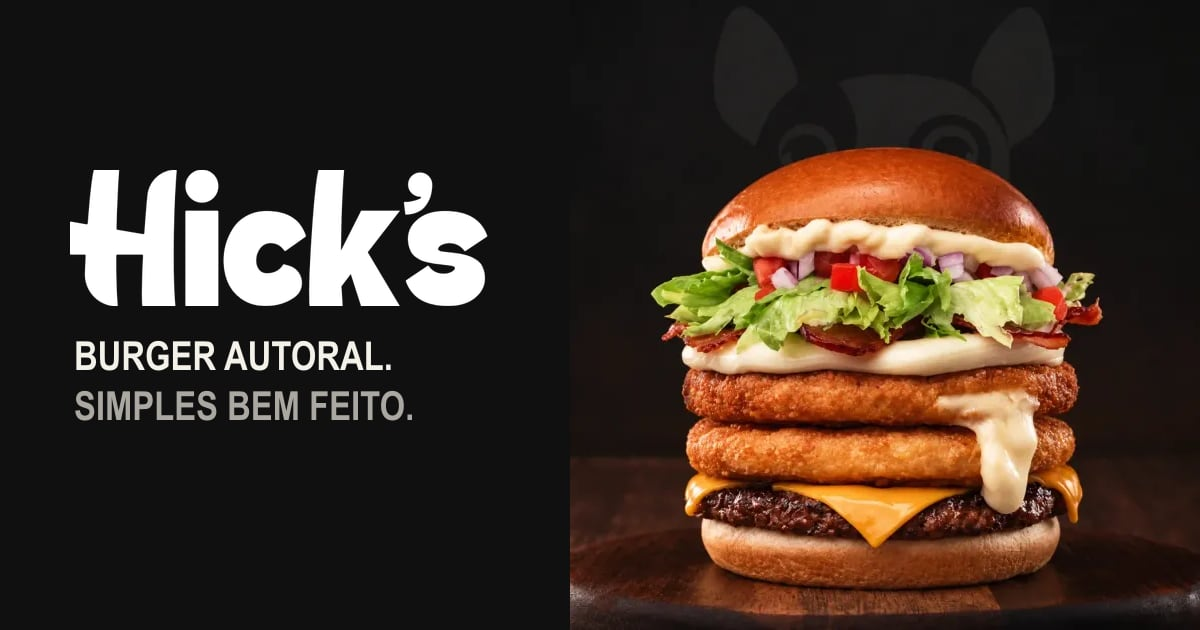
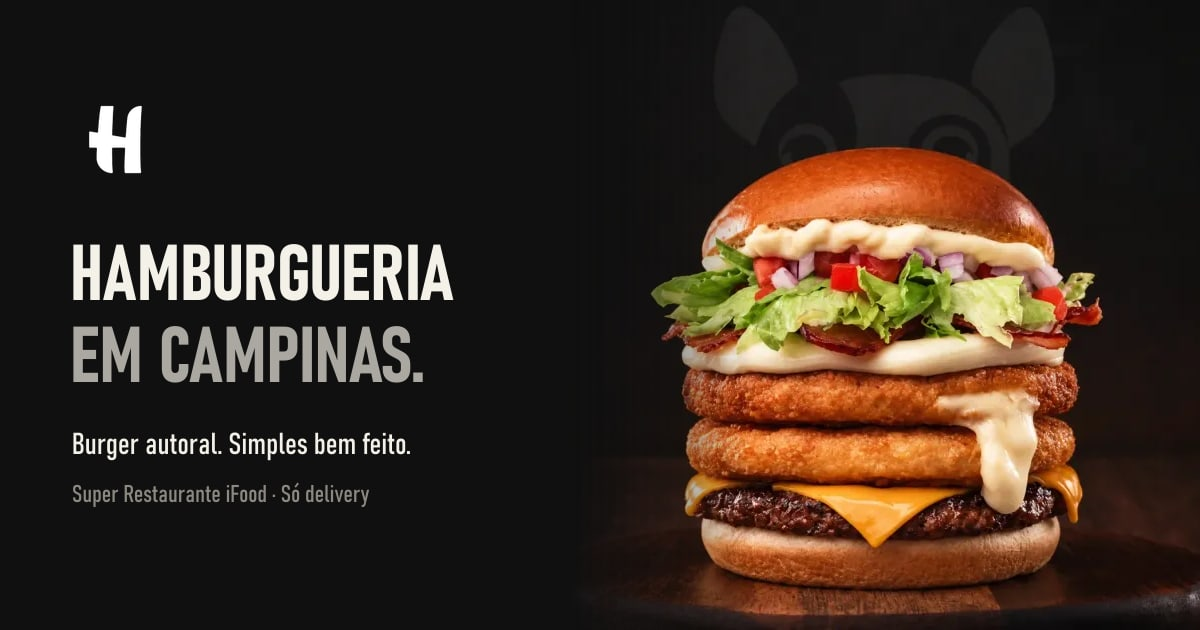
rodada 9: título, descrição, ícone H e imagem de compartilhamento; fim do "Segue o Bulldog"

diff --git a/historia.html b/historia.html
@@ -4,7 +4,7 @@
 <title>Nossa história — Hick’s Burger</title>
 <meta name="description" content="Do quintal ao burger autoral. Conheça a origem, a identidade e o bulldog do Hicks.">
 <meta name="theme-color" content="#101010"><meta property="og:title" content="Nossa história — Hick’s Burger"><meta property="og:description" content="Do quintal ao burger autoral. Conheça a origem, a identidade e o bulldog do Hicks."><meta property="og:type" content="website">
-<link rel="icon" type="image/png" sizes="32x32" href="favicon-32.png"><link rel="apple-touch-icon" href="apple-touch-icon.png"><link rel="canonical" href="https://hicksburger.com.br/historia"><meta property="og:url" content="https://hicksburger.com.br/historia"><meta property="og:image" content="https://hicksburger.com.br/og.jpg"><meta property="og:image:width" content="1200"><meta property="og:image:height" content="630"><meta property="og:locale" content="pt_BR"><meta name="twitter:card" content="summary_large_image"><link rel="preload" as="font" type="font/woff2" crossorigin href="assets/fonts/barlow-condensed-500-latin.woff2"><style>/* vietnamese */
+<link rel="icon" href="/favicon.ico" sizes="48x48"><link rel="icon" type="image/png" sizes="32x32" href="favicon-32.png"><link rel="icon" type="image/png" sizes="192x192" href="icon-192.png"><link rel="apple-touch-icon" href="apple-touch-icon.png"><link rel="canonical" href="https://hicksburger.com.br/historia"><meta property="og:url" content="https://hicksburger.com.br/historia"><meta property="og:image" content="https://hicksburger.com.br/og.jpg"><meta property="og:image:width" content="1200"><meta property="og:image:height" content="630"><meta property="og:locale" content="pt_BR"><meta name="twitter:card" content="summary_large_image"><link rel="preload" as="font" type="font/woff2" crossorigin href="assets/fonts/barlow-condensed-500-latin.woff2"><style>/* vietnamese */
 @font-face {
   font-family: 'Barlow Condensed';
   font-style: normal;
@@ -1256,4 +1256,4 @@ html.hki-lock .header .brand-h{opacity:0!important}
 .portlink-port{font-weight:300}.portlink-link{font-weight:700}
 @media(max-width:650px){.portlink-wrap{padding-bottom:70px}}
 </style></head>
-<body><a class="skip" href="#conteudo">Pular para o conteúdo</a><header class="header"><a class="brand" href="/portlink" aria-label="Hick’s Burger — início"><img class="brand-h" src="assets/img/hicks-h-clear.png" width="150" height="150" alt="Hick’s Burger"></a><nav aria-label="Navegação principal"><a href="/historia">O <img class="hk-word" src="assets/img/hicks-word.png" alt="Hick’s" width="644" height="209"></a><a href="/portlink#lanches">Os lanches</a><a href="/bastidores">Bastidores</a></nav><div class="header-actions"><a class="nav-ig" href="https://www.instagram.com/hicks_br/" target="_blank" rel="noopener noreferrer" aria-label="Instagram do Hicks — @hicks_br"><svg width="18" height="18" viewBox="0 0 24 24" fill="none" stroke="currentColor" stroke-width="1.8" aria-hidden="true"><rect x="3" y="3" width="18" height="18" rx="5"/><circle cx="12" cy="12" r="4"/><circle cx="17.3" cy="6.7" r="1" fill="currentColor" stroke="none"/></svg></a></div></header><main id="conteudo"><section class="sub-hero section-wrap"><a class="back" href="/portlink">← Voltar para o <img class="hk-word" src="assets/img/hicks-word.png" alt="Hick’s" width="644" height="209"></a><p class="eyebrow">A HISTÓRIA / A ESSÊNCIA / O BULLDOG</p><h1>Raiz no quintal.<br>Identidade em cada pedido.</h1><p>Começamos com dog. Crescemos com burger.<br>Seguimos fazendo o simples bem feito.</p></section><section class="story-body section-wrap"><div><div class="chapter"><p class="eyebrow">DE ONDE VIEMOS</p><h2>Uma história<br>sem firula.</h2><p>O <img class="hk-word" src="assets/img/hicks-word.png" alt="Hick’s" width="644" height="209"> nasceu no quintal, na correria e no improviso. Começou com hot dog e encontrou no burger um jeito de crescer sem deixar para trás a própria essência.</p><p>O que atravessa essa história é simples: atenção aos detalhes, respeito por quem pede e vontade de fazer bem feito todos os dias.</p></div><div class="chapter"><p class="eyebrow">O QUE NOS MOVE</p><h2>Autoral. Direto.<br>Da nossa região.</h2><p>Ser uma marca autoral é ter personalidade no produto e clareza na conversa. O <img class="hk-word" src="assets/img/hicks-word.png" alt="Hick’s" width="644" height="209"> valoriza o burger clássico atualizado, o sabor consistente e a proximidade com a comunidade que colocou a marca no mapa.</p><p>O compromisso é evoluir mantendo a simplicidade como assinatura. Da cozinha ao delivery, com verdade e constância.</p></div><div class="chapter"><p class="eyebrow">PRETO, BRANCO E BULLDOG</p><h2>Um símbolo<br>que aponta o caminho.</h2><p>O preto e branco faz parte da postura do <img class="hk-word" src="assets/img/hicks-word.png" alt="Hick’s" width="644" height="209">: direta, sincera e reconhecível. O bulldog concentra essa identidade.</p><p>Mais que um desenho, ele é a assinatura da marca. Quando a região vê o cachorro, sabe que chegou <img class="hk-word" src="assets/img/hicks-word.png" alt="Hick’s" width="644" height="209">.</p><p>Segue o Bulldog.</p></div></div></section><section class="sub-cta section-wrap"><p class="eyebrow">CONHEÇA O <img class="hk-word" src="assets/img/hicks-word.png" alt="Hick’s" width="644" height="209"> PELO SABOR</p><h2 style="margin-top:20px">Agora, escolha <em>o seu.</em></h2><a class="button light" href="/portlink#proximo-pedido">Ver destaques <span>↗</span></a></section></main><footer class="footer" id="fim"><div class="footer-top"><img class="footer-dog footer-h" src="assets/img/hicks-h-clear.png" alt="Hick’s" width="150" height="150"><h2>Segue o <em>Hicks.</em></h2><a class="footer-ig" href="https://www.instagram.com/hicks_br/" target="_blank" rel="noopener noreferrer" aria-label="Instagram @hicks_br"><svg width="15" height="15" viewBox="0 0 24 24" fill="none" stroke="currentColor" stroke-width="1.8" aria-hidden="true"><rect x="3" y="3" width="18" height="18" rx="5"/><circle cx="12" cy="12" r="4"/><circle cx="17.3" cy="6.7" r="1" fill="currentColor" stroke="none"/></svg><span>@hicks_br</span></a><a class="footer-cta" href="https://www.ifood.com.br/delivery/campinas-sp/hicks--burger-vila-boa-vista/4a2f1137-8a50-41d3-8a62-c63040e771f1" target="_blank" rel="noopener noreferrer">Peça agora <span>↗</span></a></div><div class="hours footer-hours"><h3>Horários da cozinha</h3><dl><div><dt>Quarta a segunda</dt><dd>18h — 23h</dd></div><div><dt>Terça-feira</dt><dd>Fechado</dd></div></dl></div><div class="footer-bottom"><a class="brand" href="/portlink"><img class="footer-brand-h" src="assets/img/hicks-h-clear.png" alt="Hick’s Burger" width="150" height="150"></a><p class="fb-tag">Burger autoral. Simples bem feito.</p></div><p class="legal"><img class="hk-word" src="assets/img/hicks-word.png" alt="Hick’s" width="644" height="209"> · Campinas — SP · CNPJ 36.635.421/0001-36</p><div class="portlink-wrap"><a href="https://useportlink.com" target="_blank" rel="noopener" aria-label="by portlink" class="portlink-sign"><span class="portlink-by">by</span><span class="portlink-word"><span class="portlink-port">port</span><span class="portlink-link">link</span></span></a></div></footer><div class="mobile-order"><span>DEU FOME?</span><a href="/central">Escolha onde pedir ↗</a></div><script src="assets/js/scroll-motion.js" defer></script></body></html>
+<body><a class="skip" href="#conteudo">Pular para o conteúdo</a><header class="header"><a class="brand" href="/portlink" aria-label="Hick’s Burger — início"><img class="brand-h" src="assets/img/hicks-h-clear.png" width="150" height="150" alt="Hick’s Burger"></a><nav aria-label="Navegação principal"><a href="/historia">O <img class="hk-word" src="assets/img/hicks-word.png" alt="Hick’s" width="644" height="209"></a><a href="/portlink#lanches">Os lanches</a><a href="/bastidores">Bastidores</a></nav><div class="header-actions"><a class="nav-ig" href="https://www.instagram.com/hicks_br/" target="_blank" rel="noopener noreferrer" aria-label="Instagram do Hicks — @hicks_br"><svg width="18" height="18" viewBox="0 0 24 24" fill="none" stroke="currentColor" stroke-width="1.8" aria-hidden="true"><rect x="3" y="3" width="18" height="18" rx="5"/><circle cx="12" cy="12" r="4"/><circle cx="17.3" cy="6.7" r="1" fill="currentColor" stroke="none"/></svg></a></div></header><main id="conteudo"><section class="sub-hero section-wrap"><a class="back" href="/portlink">← Voltar para o <img class="hk-word" src="assets/img/hicks-word.png" alt="Hick’s" width="644" height="209"></a><p class="eyebrow">A HISTÓRIA / A ESSÊNCIA / O BULLDOG</p><h1>Raiz no quintal.<br>Identidade em cada pedido.</h1><p>Começamos com dog. Crescemos com burger.<br>Seguimos fazendo o simples bem feito.</p></section><section class="story-body section-wrap"><div><div class="chapter"><p class="eyebrow">DE ONDE VIEMOS</p><h2>Uma história<br>sem firula.</h2><p>O <img class="hk-word" src="assets/img/hicks-word.png" alt="Hick’s" width="644" height="209"> nasceu no quintal, na correria e no improviso. Começou com hot dog e encontrou no burger um jeito de crescer sem deixar para trás a própria essência.</p><p>O que atravessa essa história é simples: atenção aos detalhes, respeito por quem pede e vontade de fazer bem feito todos os dias.</p></div><div class="chapter"><p class="eyebrow">O QUE NOS MOVE</p><h2>Autoral. Direto.<br>Da nossa região.</h2><p>Ser uma marca autoral é ter personalidade no produto e clareza na conversa. O <img class="hk-word" src="assets/img/hicks-word.png" alt="Hick’s" width="644" height="209"> valoriza o burger clássico atualizado, o sabor consistente e a proximidade com a comunidade que colocou a marca no mapa.</p><p>O compromisso é evoluir mantendo a simplicidade como assinatura. Da cozinha ao delivery, com verdade e constância.</p></div><div class="chapter"><p class="eyebrow">PRETO, BRANCO E BULLDOG</p><h2>Um símbolo<br>que aponta o caminho.</h2><p>O preto e branco faz parte da postura do <img class="hk-word" src="assets/img/hicks-word.png" alt="Hick’s" width="644" height="209">: direta, sincera e reconhecível. O bulldog concentra essa identidade.</p><p>Mais que um desenho, ele é a assinatura da marca. Quando a região vê o cachorro, sabe que chegou <img class="hk-word" src="assets/img/hicks-word.png" alt="Hick’s" width="644" height="209">.</p><p>Segue o Hicks.</p></div></div></section><section class="sub-cta section-wrap"><p class="eyebrow">CONHEÇA O <img class="hk-word" src="assets/img/hicks-word.png" alt="Hick’s" width="644" height="209"> PELO SABOR</p><h2 style="margin-top:20px">Agora, escolha <em>o seu.</em></h2><a class="button light" href="/portlink#proximo-pedido">Ver destaques <span>↗</span></a></section></main><footer class="footer" id="fim"><div class="footer-top"><img class="footer-dog footer-h" src="assets/img/hicks-h-clear.png" alt="Hick’s" width="150" height="150"><h2>Segue o <em>Hicks.</em></h2><a class="footer-ig" href="https://www.instagram.com/hicks_br/" target="_blank" rel="noopener noreferrer" aria-label="Instagram @hicks_br"><svg width="15" height="15" viewBox="0 0 24 24" fill="none" stroke="currentColor" stroke-width="1.8" aria-hidden="true"><rect x="3" y="3" width="18" height="18" rx="5"/><circle cx="12" cy="12" r="4"/><circle cx="17.3" cy="6.7" r="1" fill="currentColor" stroke="none"/></svg><span>@hicks_br</span></a><a class="footer-cta" href="https://www.ifood.com.br/delivery/campinas-sp/hicks--burger-vila-boa-vista/4a2f1137-8a50-41d3-8a62-c63040e771f1" target="_blank" rel="noopener noreferrer">Peça agora <span>↗</span></a></div><div class="hours footer-hours"><h3>Horários da cozinha</h3><dl><div><dt>Quarta a segunda</dt><dd>18h — 23h</dd></div><div><dt>Terça-feira</dt><dd>Fechado</dd></div></dl></div><div class="footer-bottom"><a class="brand" href="/portlink"><img class="footer-brand-h" src="assets/img/hicks-h-clear.png" alt="Hick’s Burger" width="150" height="150"></a><p class="fb-tag">Burger autoral. Simples bem feito.</p></div><p class="legal"><img class="hk-word" src="assets/img/hicks-word.png" alt="Hick’s" width="644" height="209"> · Campinas — SP · CNPJ 36.635.421/0001-36</p><div class="portlink-wrap"><a href="https://useportlink.com" target="_blank" rel="noopener" aria-label="by portlink" class="portlink-sign"><span class="portlink-by">by</span><span class="portlink-word"><span class="portlink-port">port</span><span class="portlink-link">link</span></span></a></div></footer><div class="mobile-order"><span>DEU FOME?</span><a href="/central">Escolha onde pedir ↗</a></div><script src="assets/js/scroll-motion.js" defer></script></body></html>

diff --git a/central.html b/central.html
@@ -2,9 +2,9 @@
 <html lang="pt-BR"><head>
 <meta charset="utf-8"><meta name="viewport" content="width=device-width,initial-scale=1">
 <title>Onde pedir — Hick’s Burger</title>
-<meta name="description" content="Acesse Cardápio Web, iFood, 99 e Instagram do Hick’s Burger em um só lugar.">
-<meta name="theme-color" content="#101010"><meta property="og:title" content="Onde pedir — Hick’s Burger"><meta property="og:description" content="Acesse Cardápio Web, iFood, 99 e Instagram do Hick’s Burger em um só lugar."><meta property="og:type" content="website">
-<link rel="icon" type="image/png" sizes="32x32" href="favicon-32.png"><link rel="apple-touch-icon" href="apple-touch-icon.png"><link rel="canonical" href="https://hicksburger.com.br/central"><meta property="og:url" content="https://hicksburger.com.br/central"><meta property="og:image" content="https://hicksburger.com.br/og.jpg"><meta property="og:image:width" content="1200"><meta property="og:image:height" content="630"><meta property="og:locale" content="pt_BR"><meta name="twitter:card" content="summary_large_image"><link rel="preload" as="font" type="font/woff2" crossorigin href="assets/fonts/barlow-condensed-500-latin.woff2"><style>/* vietnamese */
+<meta name="description" content="Onde pedir o Hicks em Campinas: peça pelo iFood, de quarta a segunda, das 18h às 23h. Acompanhe também o Instagram @hicks_br.">
+<meta name="theme-color" content="#101010"><meta property="og:title" content="Onde pedir — Hick’s Burger"><meta property="og:description" content="Onde pedir o Hicks em Campinas: peça pelo iFood, de quarta a segunda, das 18h às 23h. Acompanhe também o Instagram @hicks_br."><meta property="og:type" content="website">
+<link rel="icon" href="/favicon.ico" sizes="48x48"><link rel="icon" type="image/png" sizes="32x32" href="favicon-32.png"><link rel="icon" type="image/png" sizes="192x192" href="icon-192.png"><link rel="apple-touch-icon" href="apple-touch-icon.png"><link rel="canonical" href="https://hicksburger.com.br/central"><meta property="og:url" content="https://hicksburger.com.br/central"><meta property="og:image" content="https://hicksburger.com.br/og.jpg"><meta property="og:image:width" content="1200"><meta property="og:image:height" content="630"><meta property="og:locale" content="pt_BR"><meta name="twitter:card" content="summary_large_image"><link rel="preload" as="font" type="font/woff2" crossorigin href="assets/fonts/barlow-condensed-500-latin.woff2"><style>/* vietnamese */
 @font-face {
   font-family: 'Barlow Condensed';
   font-style: normal;
@@ -1256,4 +1256,4 @@ html.hki-lock .header .brand-h{opacity:0!important}
 .portlink-port{font-weight:300}.portlink-link{font-weight:700}
 @media(max-width:650px){.portlink-wrap{padding-bottom:70px}}
 </style></head>
-<body><a class="skip" href="#conteudo">Pular para o conteúdo</a><header class="header"><a class="brand" href="/portlink" aria-label="Hick’s Burger — início"><img class="brand-h" src="assets/img/hicks-h-clear.png" width="150" height="150" alt="Hick’s Burger"></a><nav aria-label="Navegação principal"><a href="/historia">O <img class="hk-word" src="assets/img/hicks-word.png" alt="Hick’s" width="644" height="209"></a><a href="/portlink#lanches">Os lanches</a><a href="/bastidores">Bastidores</a></nav><div class="header-actions"><a class="nav-ig" href="https://www.instagram.com/hicks_br/" target="_blank" rel="noopener noreferrer" aria-label="Instagram do Hicks — @hicks_br"><svg width="18" height="18" viewBox="0 0 24 24" fill="none" stroke="currentColor" stroke-width="1.8" aria-hidden="true"><rect x="3" y="3" width="18" height="18" rx="5"/><circle cx="12" cy="12" r="4"/><circle cx="17.3" cy="6.7" r="1" fill="currentColor" stroke="none"/></svg></a></div></header><main id="conteudo"><section class="central-layout section-wrap"><a class="back text-link" href="/portlink">← Voltar para o <img class="hk-word" src="assets/img/hicks-word.png" alt="Hick’s" width="644" height="209"></a><p class="eyebrow" style="margin-top:45px">A CENTRAL DO <img class="hk-word" src="assets/img/hicks-word.png" alt="Hick’s" width="644" height="209"></p><h1>Sua fome.<br>Seu caminho.</h1><p class="central-sub">Todos os acessos oficiais, em um só lugar.</p><div class="access-actions central-actions"><a class="ch ch-ifood" href="https://www.ifood.com.br/delivery/campinas-sp/hicks--burger-vila-boa-vista/4a2f1137-8a50-41d3-8a62-c63040e771f1" target="_blank" rel="noopener noreferrer"><span class="ch-tag">Super Restaurante</span><img class="ch-brand" src="assets/img/logo-ifood.jpg" alt="iFood" width="172" height="148"><span class="ch-label">peça pelo iFood</span></a></div><a class="mq-follow central-ig" href="https://www.instagram.com/hicks_br/" target="_blank" rel="noopener noreferrer" aria-label="Segue o bulldog no Instagram">segue o <span class="hk-font">bulldog</span> <svg width="14" height="14" viewBox="0 0 24 24" fill="none" stroke="currentColor" stroke-width="1.8" aria-hidden="true"><rect x="3" y="3" width="18" height="18" rx="5"/><circle cx="12" cy="12" r="4"/><circle cx="17.3" cy="6.7" r="1" fill="currentColor" stroke="none"/></svg></a><p class="fine" style="margin-top:25px">A disponibilidade, os preços e as condições de entrega são informados em cada plataforma.</p><a class="central-back" href="/portlink#informacoes">Horários e informações úteis ↗</a></section></main><footer class="footer" id="fim"><div class="footer-top"><img class="footer-dog footer-h" src="assets/img/hicks-h-clear.png" alt="Hick’s" width="150" height="150"><h2>Segue o <em>Hicks.</em></h2><a class="footer-ig" href="https://www.instagram.com/hicks_br/" target="_blank" rel="noopener noreferrer" aria-label="Instagram @hicks_br"><svg width="15" height="15" viewBox="0 0 24 24" fill="none" stroke="currentColor" stroke-width="1.8" aria-hidden="true"><rect x="3" y="3" width="18" height="18" rx="5"/><circle cx="12" cy="12" r="4"/><circle cx="17.3" cy="6.7" r="1" fill="currentColor" stroke="none"/></svg><span>@hicks_br</span></a><a class="footer-cta" href="https://www.ifood.com.br/delivery/campinas-sp/hicks--burger-vila-boa-vista/4a2f1137-8a50-41d3-8a62-c63040e771f1" target="_blank" rel="noopener noreferrer">Peça agora <span>↗</span></a></div><div class="hours footer-hours"><h3>Horários da cozinha</h3><dl><div><dt>Quarta a segunda</dt><dd>18h — 23h</dd></div><div><dt>Terça-feira</dt><dd>Fechado</dd></div></dl></div><div class="footer-bottom"><a class="brand" href="/portlink"><img class="footer-brand-h" src="assets/img/hicks-h-clear.png" alt="Hick’s Burger" width="150" height="150"></a><p class="fb-tag">Burger autoral. Simples bem feito.</p></div><p class="legal"><img class="hk-word" src="assets/img/hicks-word.png" alt="Hick’s" width="644" height="209"> · Campinas — SP · CNPJ 36.635.421/0001-36</p><div class="portlink-wrap"><a href="https://useportlink.com" target="_blank" rel="noopener" aria-label="by portlink" class="portlink-sign"><span class="portlink-by">by</span><span class="portlink-word"><span class="portlink-port">port</span><span class="portlink-link">link</span></span></a></div></footer><div class="mobile-order"><span>DEU FOME?</span><a href="/central">Escolha onde pedir ↗</a></div><script src="assets/js/scroll-motion.js" defer></script></body></html>
+<body><a class="skip" href="#conteudo">Pular para o conteúdo</a><header class="header"><a class="brand" href="/portlink" aria-label="Hick’s Burger — início"><img class="brand-h" src="assets/img/hicks-h-clear.png" width="150" height="150" alt="Hick’s Burger"></a><nav aria-label="Navegação principal"><a href="/historia">O <img class="hk-word" src="assets/img/hicks-word.png" alt="Hick’s" width="644" height="209"></a><a href="/portlink#lanches">Os lanches</a><a href="/bastidores">Bastidores</a></nav><div class="header-actions"><a class="nav-ig" href="https://www.instagram.com/hicks_br/" target="_blank" rel="noopener noreferrer" aria-label="Instagram do Hicks — @hicks_br"><svg width="18" height="18" viewBox="0 0 24 24" fill="none" stroke="currentColor" stroke-width="1.8" aria-hidden="true"><rect x="3" y="3" width="18" height="18" rx="5"/><circle cx="12" cy="12" r="4"/><circle cx="17.3" cy="6.7" r="1" fill="currentColor" stroke="none"/></svg></a></div></header><main id="conteudo"><section class="central-layout section-wrap"><a class="back text-link" href="/portlink">← Voltar para o <img class="hk-word" src="assets/img/hicks-word.png" alt="Hick’s" width="644" height="209"></a><p class="eyebrow" style="margin-top:45px">A CENTRAL DO <img class="hk-word" src="assets/img/hicks-word.png" alt="Hick’s" width="644" height="209"></p><h1>Sua fome.<br>Seu caminho.</h1><p class="central-sub">Todos os acessos oficiais, em um só lugar.</p><div class="access-actions central-actions"><a class="ch ch-ifood" href="https://www.ifood.com.br/delivery/campinas-sp/hicks--burger-vila-boa-vista/4a2f1137-8a50-41d3-8a62-c63040e771f1" target="_blank" rel="noopener noreferrer"><span class="ch-tag">Super Restaurante</span><img class="ch-brand" src="assets/img/logo-ifood.jpg" alt="iFood" width="172" height="148"><span class="ch-label">peça pelo iFood</span></a></div><a class="mq-follow central-ig" href="https://www.instagram.com/hicks_br/" target="_blank" rel="noopener noreferrer" aria-label="Segue o Hicks no Instagram">segue o <span class="hk-font">Hicks</span> <svg width="14" height="14" viewBox="0 0 24 24" fill="none" stroke="currentColor" stroke-width="1.8" aria-hidden="true"><rect x="3" y="3" width="18" height="18" rx="5"/><circle cx="12" cy="12" r="4"/><circle cx="17.3" cy="6.7" r="1" fill="currentColor" stroke="none"/></svg></a><p class="fine" style="margin-top:25px">A disponibilidade, os preços e as condições de entrega são informados em cada plataforma.</p><a class="central-back" href="/portlink#informacoes">Horários e informações úteis ↗</a></section></main><footer class="footer" id="fim"><div class="footer-top"><img class="footer-dog footer-h" src="assets/img/hicks-h-clear.png" alt="Hick’s" width="150" height="150"><h2>Segue o <em>Hicks.</em></h2><a class="footer-ig" href="https://www.instagram.com/hicks_br/" target="_blank" rel="noopener noreferrer" aria-label="Instagram @hicks_br"><svg width="15" height="15" viewBox="0 0 24 24" fill="none" stroke="currentColor" stroke-width="1.8" aria-hidden="true"><rect x="3" y="3" width="18" height="18" rx="5"/><circle cx="12" cy="12" r="4"/><circle cx="17.3" cy="6.7" r="1" fill="currentColor" stroke="none"/></svg><span>@hicks_br</span></a><a class="footer-cta" href="https://www.ifood.com.br/delivery/campinas-sp/hicks--burger-vila-boa-vista/4a2f1137-8a50-41d3-8a62-c63040e771f1" target="_blank" rel="noopener noreferrer">Peça agora <span>↗</span></a></div><div class="hours footer-hours"><h3>Horários da cozinha</h3><dl><div><dt>Quarta a segunda</dt><dd>18h — 23h</dd></div><div><dt>Terça-feira</dt><dd>Fechado</dd></div></dl></div><div class="footer-bottom"><a class="brand" href="/portlink"><img class="footer-brand-h" src="assets/img/hicks-h-clear.png" alt="Hick’s Burger" width="150" height="150"></a><p class="fb-tag">Burger autoral. Simples bem feito.</p></div><p class="legal"><img class="hk-word" src="assets/img/hicks-word.png" alt="Hick’s" width="644" height="209"> · Campinas — SP · CNPJ 36.635.421/0001-36</p><div class="portlink-wrap"><a href="https://useportlink.com" target="_blank" rel="noopener" aria-label="by portlink" class="portlink-sign"><span class="portlink-by">by</span><span class="portlink-word"><span class="portlink-port">port</span><span class="portlink-link">link</span></span></a></div></footer><div class="mobile-order"><span>DEU FOME?</span><a href="/central">Escolha onde pedir ↗</a></div><script src="assets/js/scroll-motion.js" defer></script></body></html>

diff --git a/portlink.html b/portlink.html
@@ -1,10 +1,10 @@
 <!DOCTYPE html>
 <html lang="pt-BR"><head>
 <meta charset="utf-8"><meta name="viewport" content="width=device-width,initial-scale=1">
-<title>Hick’s Burger — Burger autoral. Simples bem feito.</title>
-<meta name="description" content="Conheça o Hick’s Burger: burger autoral, delivery em Campinas e os principais lanches da casa. Segue o Bulldog.">
-<meta name="theme-color" content="#101010"><meta property="og:title" content="Hick’s Burger — Segue o Bulldog"><meta property="og:description" content="Burger autoral. Simples bem feito. Conheça o Hicks e escolha onde pedir."><meta property="og:type" content="website">
-<link rel="icon" type="image/png" sizes="32x32" href="favicon-32.png"><link rel="apple-touch-icon" href="apple-touch-icon.png"><link rel="canonical" href="https://hicksburger.com.br/portlink"><meta property="og:url" content="https://hicksburger.com.br/portlink"><meta property="og:image" content="https://hicksburger.com.br/og.jpg"><meta property="og:image:width" content="1200"><meta property="og:image:height" content="630"><meta property="og:locale" content="pt_BR"><meta name="twitter:card" content="summary_large_image"><link rel="preload" as="font" type="font/woff2" crossorigin href="assets/fonts/barlow-condensed-500-latin.woff2"><style>/* vietnamese */
+<title>Hick’s Burger — Hamburgueria em Campinas</title>
+<meta name="description" content="Hamburgueria em Campinas, só delivery: burgers autorais de Angus e frango crocante no pão brioche. Super Restaurante iFood. Peça pelo iFood, das 18h às 23h.">
+<meta name="theme-color" content="#101010"><meta property="og:title" content="Hick’s Burger — Hamburgueria em Campinas"><meta property="og:description" content="Burgers autorais de Angus e frango crocante, com entrega em Campinas. Super Restaurante iFood. Peça pelo iFood."><meta property="og:type" content="website">
+<link rel="icon" href="/favicon.ico" sizes="48x48"><link rel="icon" type="image/png" sizes="32x32" href="favicon-32.png"><link rel="icon" type="image/png" sizes="192x192" href="icon-192.png"><link rel="apple-touch-icon" href="apple-touch-icon.png"><link rel="canonical" href="https://hicksburger.com.br/portlink"><meta property="og:url" content="https://hicksburger.com.br/portlink"><meta property="og:image" content="https://hicksburger.com.br/og.jpg"><meta property="og:image:width" content="1200"><meta property="og:image:height" content="630"><meta property="og:locale" content="pt_BR"><meta name="twitter:card" content="summary_large_image"><link rel="preload" as="font" type="font/woff2" crossorigin href="assets/fonts/barlow-condensed-500-latin.woff2"><style>/* vietnamese */
 @font-face {
   font-family: 'Barlow Condensed';
   font-style: normal;
@@ -1261,7 +1261,7 @@ html.hki-lock .header .brand-h{opacity:0!important}
 <header class="header"><a class="brand" href="#inicio" aria-label="Hick’s Burger — início"><img class="brand-h" src="assets/img/hicks-h-clear.png" width="150" height="150" alt="Hick’s Burger"></a><nav aria-label="Navegação principal"><a href="/historia">O <img class="hk-word" src="assets/img/hicks-word.png" alt="Hick’s" width="644" height="209"></a><a href="#lanches">Os lanches</a><a href="/bastidores">Bastidores</a></nav><div class="header-actions"><a class="nav-ig" href="https://www.instagram.com/hicks_br/" target="_blank" rel="noopener noreferrer" aria-label="Instagram do Hicks — @hicks_br"><svg width="18" height="18" viewBox="0 0 24 24" fill="none" stroke="currentColor" stroke-width="1.8" aria-hidden="true"><rect x="3" y="3" width="18" height="18" rx="5"></rect><circle cx="12" cy="12" r="4"></circle><circle cx="17.3" cy="6.7" r="1" fill="currentColor" stroke="none"></circle></svg></a></div></header>
 <main id="conteudo">
 <section class="hero" id="inicio" aria-labelledby="hero-title"><div class="hero-copy"><p class="eyebrow">BURGER AUTORAL. RAIZ DE QUINTAL.</p><h1 id="hero-title"><span>Pode olhar.</span><br><span class="hero-worn">Vai dar fome.</span></h1><p class="hero-intro">Pão, carne e fogo.<br>E o jeito <img class="hk-word" src="assets/img/hicks-word.png" alt="Hick’s" width="644" height="209"> de fazer.</p><div class="hero-actions"><a class="button light hero-order-btn" href="https://www.ifood.com.br/delivery/campinas-sp/hicks--burger-vila-boa-vista/4a2f1137-8a50-41d3-8a62-c63040e771f1" target="_blank" rel="noopener noreferrer">Pedir agora <span>↗</span></a><a class="text-link" href="#proximo-pedido">Ver destaques <span>↓</span></a></div></div><div class="hero-visual"><picture style="display:contents"><source media="(max-width:650px)" srcset="assets/cardapio/2108707-480.webp 480w, assets/cardapio/2108707-800.webp 800w, assets/cardapio/2108707.webp 1100w" sizes="115vw"><img class="hero-burger" src="assets/img/burger-01.jpg" alt="Baba-Yaga do Hick’s: Angus, frango empanado, muçarela, Catupiry e bacon" fetchpriority="high" width="700" height="700"></picture><div class="orbit-stamp" aria-hidden="true"><span>BURGER AUTORAL</span><b>H.</b><span>SIMPLES BEM FEITO</span></div><span class="image-caption">BABA-YAGA / ANGUS + CHICKEN &amp; CATUPIRY</span></div><a class="scroll-hint" href="#acesso" aria-label="Explorar o Hicks">↓</a></section>
-<div class="manifesto-strip" aria-hidden="true"><div class="mq-track"><div class="mq-group"><span>SEM FIRULA.</span><img class="mq-h" src="assets/img/hicks-h.png" alt=""><span>COM IDENTIDADE.</span><img class="mq-h" src="assets/img/hicks-h.png" alt=""><span>SEGUE O BULLDOG.</span><img class="mq-h" src="assets/img/hicks-h.png" alt=""></div><div class="mq-group"><span>SEM FIRULA.</span><img class="mq-h" src="assets/img/hicks-h.png" alt=""><span>COM IDENTIDADE.</span><img class="mq-h" src="assets/img/hicks-h.png" alt=""><span>SEGUE O BULLDOG.</span><img class="mq-h" src="assets/img/hicks-h.png" alt=""></div></div></div>
+<div class="manifesto-strip" aria-hidden="true"><div class="mq-track"><div class="mq-group"><span>SEM FIRULA.</span><img class="mq-h" src="assets/img/hicks-h.png" alt=""><span>COM IDENTIDADE.</span><img class="mq-h" src="assets/img/hicks-h.png" alt=""><span>SEGUE O HICKS.</span><img class="mq-h" src="assets/img/hicks-h.png" alt=""></div><div class="mq-group"><span>SEM FIRULA.</span><img class="mq-h" src="assets/img/hicks-h.png" alt=""><span>COM IDENTIDADE.</span><img class="mq-h" src="assets/img/hicks-h.png" alt=""><span>SEGUE O HICKS.</span><img class="mq-h" src="assets/img/hicks-h.png" alt=""></div></div></div>
 <section id="acesso" class="access section-wrap"><div class="access-card"><div class="access-icon">↗</div><div><p class="eyebrow">UM CAMINHO. TODAS AS OPÇÕES.</p><h2>Sua fome tem endereço.</h2><p>Pelo iFood, seja onde for, peça <img class="hk-word" src="assets/img/hicks-word.png" alt="Hick’s" width="644" height="209">.</p><div class="access-actions"><a class="ch ch-ifood" href="https://www.ifood.com.br/delivery/campinas-sp/hicks--burger-vila-boa-vista/4a2f1137-8a50-41d3-8a62-c63040e771f1" target="_blank" rel="noopener noreferrer"><span class="ch-tag">Super Restaurante</span><img class="ch-brand" src="assets/img/logo-ifood.jpg" alt="iFood" width="172" height="148"><span class="ch-label">peça pelo iFood</span></a><div class="ch-more-wrap"><a class="ch-more" href="#reconhecimento">conheça o <img class="hk-word" src="assets/img/hicks-word.png" alt="Hick’s" width="644" height="209"> <span>↓</span></a></div></div></div><a class="access-end" href="/central">Abrir central <span>↗</span></a></div></section>
 <section class="recognition section-wrap" id="reconhecimento"><div class="recognition-copy"><p class="eyebrow">RECONHECIMENTO DO <img class="hk-word" src="assets/img/hicks-word.png" alt="Hick’s" width="644" height="209"></p><h2>Constância que<br><em>deixa marca.</em></h2><div class="mobile-seals seal-stack" role="group" aria-label="Selos apresentados pelo Hicks"><div class="seal-card" style="--i:0"><img src="assets/img/selos/ifood.webp" alt="Super Restaurante iFood" width="1254" height="1254"><span class="seal-cap"><b>Super Restaurante iFood</b></span></div><div class="seal-card" style="--i:1"><img src="assets/img/selos/top-10.webp" alt="Prêmio Hambúrguer Perfeito — Top 10 Campinas" width="1254" height="1254"><span class="seal-cap"><b>Prêmio Hambúrguer Perfeito</b><small>Top 10 Campinas</small></span></div><div class="seal-card" style="--i:2"><img src="assets/img/selos/365.webp" alt="Padrão e Constância 365 Dias" width="1254" height="1254"><span class="seal-cap"><b>Padrão e Constância 365 Dias</b></span></div><div class="seal-card" style="--i:3"><img src="assets/img/selos/angus.webp" alt="Angus Brasil — Carne Certificada" width="1254" height="1254"><span class="seal-cap"><b>Angus Brasil</b><small>Carne Certificada</small></span></div><div class="seal-card" style="--i:4"><img src="assets/img/selos/brazil-beef.webp" alt="Brazil Beef Quality" width="1254" height="1254"><span class="seal-cap"><b>Brazil Beef Quality</b></span></div></div></div></section>
 

diff --git a/bastidores.html b/bastidores.html
@@ -4,7 +4,7 @@
 <title>Na cozinha do Hicks — Hick’s Burger</title>
 <meta name="description" content="Explore os bastidores e a montagem dos burgers nas publicações oficiais do Hicks.">
 <meta name="theme-color" content="#101010"><meta property="og:title" content="Na cozinha do Hicks — Hick’s Burger"><meta property="og:description" content="Explore os bastidores e a montagem dos burgers nas publicações oficiais do Hicks."><meta property="og:type" content="website">
-<link rel="icon" type="image/png" sizes="32x32" href="favicon-32.png"><link rel="apple-touch-icon" href="apple-touch-icon.png"><link rel="canonical" href="https://hicksburger.com.br/bastidores"><meta property="og:url" content="https://hicksburger.com.br/bastidores"><meta property="og:image" content="https://hicksburger.com.br/og.jpg"><meta property="og:image:width" content="1200"><meta property="og:image:height" content="630"><meta property="og:locale" content="pt_BR"><meta name="twitter:card" content="summary_large_image"><link rel="preload" as="font" type="font/woff2" crossorigin href="assets/fonts/barlow-condensed-500-latin.woff2"><style>/* vietnamese */
+<link rel="icon" href="/favicon.ico" sizes="48x48"><link rel="icon" type="image/png" sizes="32x32" href="favicon-32.png"><link rel="icon" type="image/png" sizes="192x192" href="icon-192.png"><link rel="apple-touch-icon" href="apple-touch-icon.png"><link rel="canonical" href="https://hicksburger.com.br/bastidores"><meta property="og:url" content="https://hicksburger.com.br/bastidores"><meta property="og:image" content="https://hicksburger.com.br/og.jpg"><meta property="og:image:width" content="1200"><meta property="og:image:height" content="630"><meta property="og:locale" content="pt_BR"><meta name="twitter:card" content="summary_large_image"><link rel="preload" as="font" type="font/woff2" crossorigin href="assets/fonts/barlow-condensed-500-latin.woff2"><style>/* vietnamese */
 @font-face {
   font-family: 'Barlow Condensed';
   font-style: normal;

diff --git a/docs/CHANGELOG.md b/docs/CHANGELOG.md
@@ -42,3 +42,10 @@
 
 ## Rodada 8 — 19/10/2026
 - Subtítulos no lugar do genérico "Angus Premium no pão brioche": Quarterão Angus Premium → "Releitura do Clássico do Méqui"; Cheese Salada → "Releitura Shake Shack"; Cheese Burger → "Pão, carne e queijo".
+
+## Rodada 9 — 19/10/2026 (SEO do link)
+- Título: "Hick’s Burger — Hamburgueria em Campinas" (Google e WhatsApp; antes "Burger autoral. Simples bem feito." e "Segue o Bulldog").
+- Descrição nova no Google: "Hamburgueria em Campinas, só delivery: burgers autorais de Angus e frango crocante no pão brioche. Super Restaurante iFood. Peça pelo iFood, das 18h às 23h." No WhatsApp, versão curta. Descrição da Central corrigida (citava Cardápio Web e 99).
+- Ícone: monograma H em favicon.ico (16/32/48), 32, 192, 512 e ícone do iPhone.
+- Imagem de compartilhamento nova: H + "Hamburgueria em Campinas." + Baba-Yaga.
+- "Segue o Bulldog" não existe mais: virou "Segue o Hicks" na faixa, na História e no link do Instagram da Central. O montador trava se a frase voltar.
